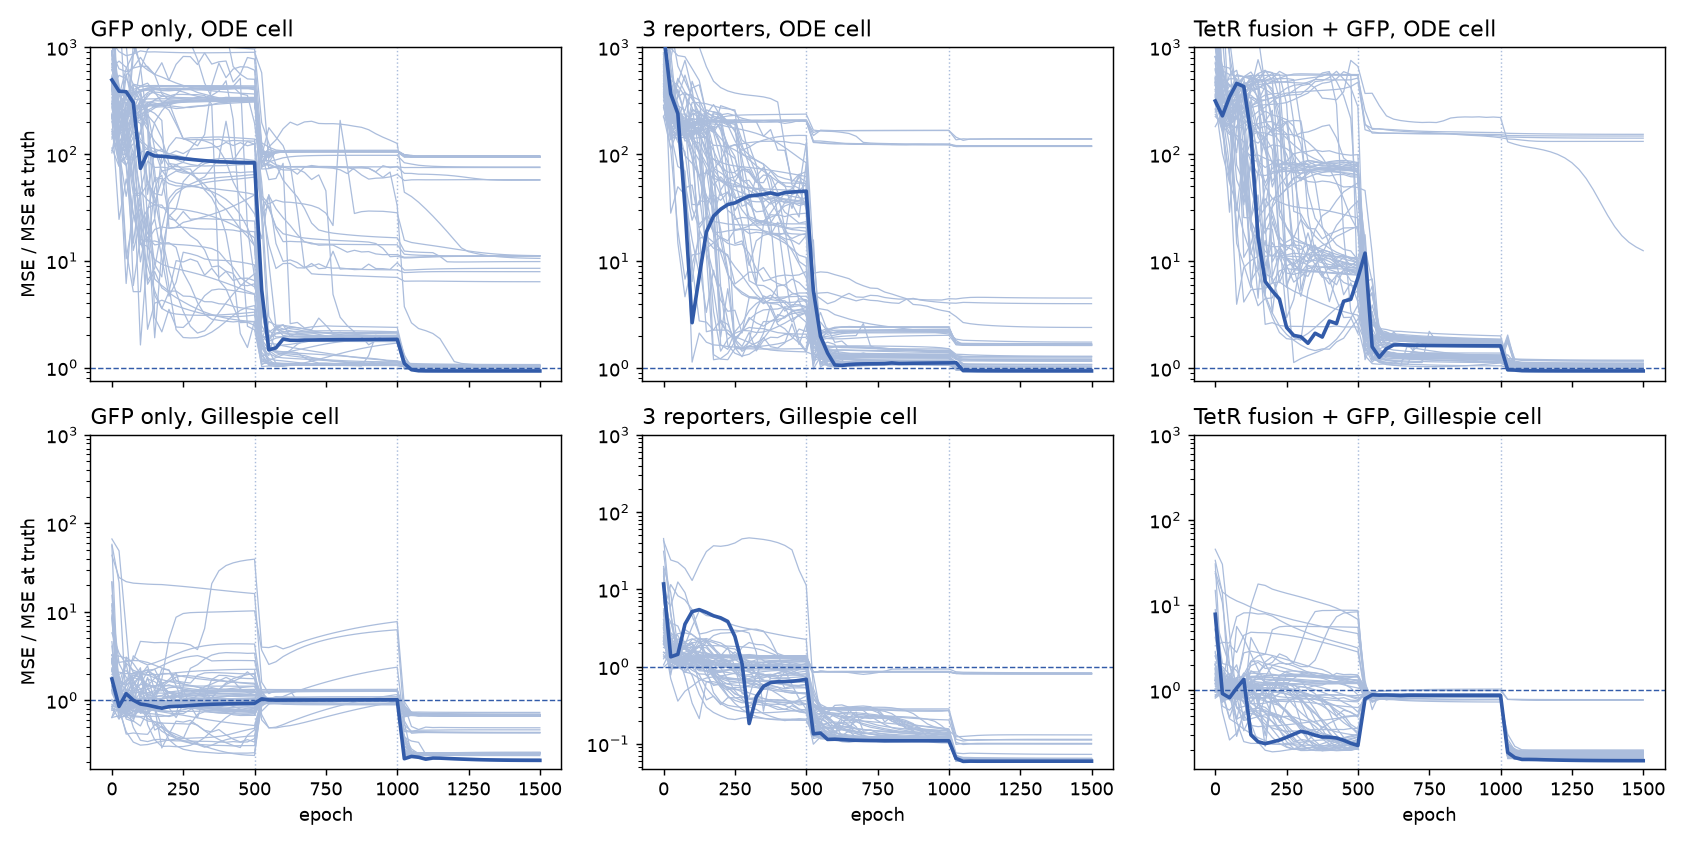
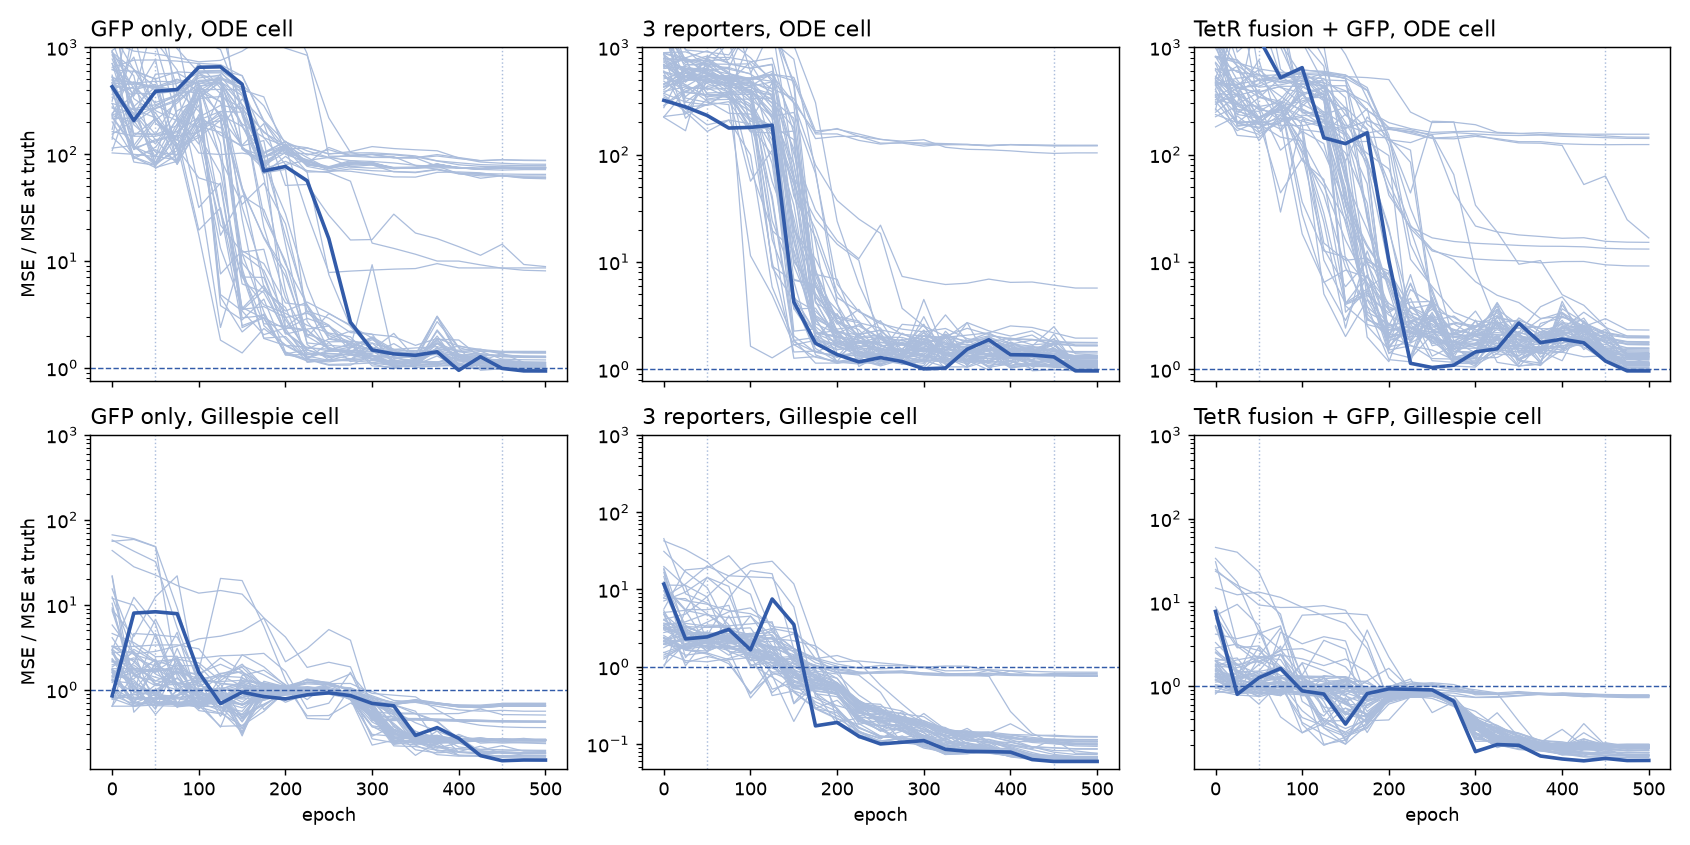
README: current method (64 x 500, ramp curriculum, coupled lr) and results
Updated tables and text for the new fit; new sections on fit quality, the
fairness controls, other circuits and real mother-machine cells, and the
curriculum / learning-rate / budget study; regenerated figures. The poster
summary is marked as describing the first version.

diff --git a/README.md b/README.md
@@ -5,8 +5,12 @@ David Korcak (dkorcak@ethz.ch) · MSc, Department of Computer Science, ETH Züri
 Inferring a gene circuit's parameters from sparse single-cell observations usually
 relies on dedicated estimators, optionally with a simulation. Using the repressilator,
 we show that **backpropagation through a differentiable simulation itself matches or
-outperforms them**. What limits inference is the choice of reporters, which we assess
-with an identifiability analysis.
+outperforms them**, and that its estimates reproduce the time series far better (§4.5,
+§4.6). The advantage is largest for oscillators: on other circuits it is competitive
+rather than dominant (§4.7), and on real mother-machine recordings of the improved
+repressilator it is the only one of four methods whose estimates oscillate (§4.8). What
+limits inference is the choice of reporters, which we assess with an identifiability
+analysis.
 
 <p align="center"><a href="docs/poster.pdf"><img src="assets/poster.png" width="520" alt="Poster"></a></p>
 
@@ -237,15 +241,19 @@ $$\mathcal{L} = \frac{1}{G\cdot C}\sum_{i=1}^{G\cdot C} H_\delta(r_i)$$
 
 ### Optimisation
 
-- We use Adam for 1500 epochs (update steps), and the learning rate (step
-  size) follows a cosine curve from 0.05 down to 2.5·10⁻⁴.
-- We use a *curriculum*. The loss first sees only the first 25% of the frames, then the
-  first 50%, then all of them. On a limit cycle a period error ΔT turns into a phase
-  error that grows linearly in time, roughly tΔT/T. Over the full 10 h a modest period
-  mismatch shifts the trajectory by whole cycles. The misfit then becomes nearly flat in
-  the parameters and has spurious minima wherever the model runs a cycle ahead or
-  behind. Fitting the first quarter and half of the record pins the period while phase
-  errors are still small, and the full record then refines it.
+- We use Adam for 500 epochs (update steps).
+- We use a *curriculum*. On a limit cycle a period error ΔT turns into a phase error
+  that grows linearly in time, roughly tΔT/T. Over the full 10 h a modest period mismatch
+  shifts the trajectory by whole cycles. The misfit then becomes nearly flat in the
+  parameters and has spurious minima wherever the model runs a cycle ahead or behind. So
+  the loss first sees only the first 10% of the frames (for the first 10% of epochs), then
+  a window that grows linearly to the whole record at 90% of the epochs. Fitting the early
+  part pins the period while phase errors are still small.
+- The **learning rate follows the window**. It stays at 0.05 while the window grows, so
+  restarts can still move between valleys, and anneals along a cosine to 2.5·10⁻⁴ during
+  the final 10% of epochs on the whole record, which settles each restart.
+- This is about 3.5× cheaper than the first version (1500 epochs, a 25% / 50% / 100%
+  curriculum and a cosine learning rate over all of training) and fits as well; see §5.
 
 ### Restarts
 
@@ -298,7 +306,7 @@ Median results on **ODE cells**
 
 | method | α | n | β | fit (× MSE at truth) |
 |---|---|---|---|---|
-| **diff. ODE (ours)** | **18%** | **3.4%** | **1.6%** | **0.94×** (all 39 between 0.87× and 1.0×) |
+| **diff. ODE (ours)** | **20%** | **4.2%** | **1.8%** | **0.96×** (all 39 between 0.87× and 1.00×) |
 | ABC-SMC | 61% | 15% | 54% | 219× |
 | MAGI | 34% | 12% | 17% | 64× |
 | inverse PINN | 50% | 28% | 16% | 278× |
@@ -307,7 +315,7 @@ Median results on **Gillespie cells**
 
 | method | α | n | β | fit (× MSE at truth) |
 |---|---|---|---|---|
-| **diff. ODE (ours)** | 73% | 8.5% | **11%** | **0.28×** |
+| **diff. ODE (ours)** | 81% | 7.1% | **9.2%** | **0.28×** |
 | ABC-SMC | 53% | 16% | 22% | 1.5× |
 | MAGI | 62% | **5.7%** | 23% | 0.93× |
 | inverse PINN | 58% | 23% | 16% | 2.2× |
@@ -331,13 +339,13 @@ the optimum. The other methods' estimates reproduce the data 64 to 278 times wor
 - MAGI estimates n better.
 - No method recovers α. The random variation in height from one cycle to the next
   swamps α, which is exactly the parameter that sets the height. Our per-cell α errors
-  range from 4% to 341%.
+  range from 1% to 344%.
 - Fits below 1× are expected here. A deterministic model run at the true parameters
   cannot follow the random path of a stochastic cell, so a fitted model can do better.
 
-**The number of seeds matters.** With only the first 3 seeds we looked better on
-Gillespie cells than we do with 13 (α 52% instead of 73%, n 5.5% instead of 8.5%). The
-result on ODE cells did not change.
+**The number of seeds matters.** With only the first 3 seeds our Gillespie α error is 117%
+instead of 81% with 13 (the first version of the fit showed the opposite, 52% instead of
+73%). Medians over a few stochastic cells are not stable; the ODE results are.
 
 ### 4.2 What the difference looks like
 
@@ -348,7 +356,7 @@ this configuration it is the median case for ABC-SMC, not the most flattering co
 Both methods started from the same prior draws, since ABC's first 64 particles are
 exactly our 64 starting guesses.
 
-- Ours follows the timing and height of each cycle, at 0.53× the MSE at the truth.
+- Ours follows the timing and height of each cycle, at 0.52× the MSE at the truth.
 - ABC-SMC settles on small, fast oscillations, at 2.6×.
 
 ### 4.3 Differentiable Gillespie does not qualify
@@ -411,19 +419,104 @@ by what is measured.
 
 | configuration | seeds | achieved α / n / β | achievable 1σ α / n / β |
 |---|---|---|---|
-| GFP only | 14 | 37% / 6.4% / 5.3% | 69% / 11.6% / 4.6% |
-| 2 reporters (GFP + mScarlet-I3) | 3 | 10% / 2.8% / 0.6% | 30% / 5.7% / 2.1% |
-| 3 reporters | 14 | 30% / 2.9% / 1.6% | 39% / 7.0% / 2.0% |
-| TetR fusion | 3 | 11% / 3.4% / 0.3% | 11% / 3.6% / 0.9% |
-| TetR fusion + GFP | 13 | 9% / 2.0% / 0.7% | 9% / 3.5% / 1.5% |
-| TetR fusion + mScarlet-I3 | 3 | 7% / 0.4% / 0.5% | 8% / 1.7% / 0.7% |
-| TetR fusion + 3 reporters | 3 | 6% / 2.1% / 0.9% | 11% / 3.4% / 0.9% |
-| 3 fusions | 3 | 2% / 1.4% / 0.6% | 9% / 3.0% / 0.7% |
+| GFP only | 14 | 38% / 4.9% / 5.3% | 69% / 11.6% / 4.6% |
+| 2 reporters (GFP + mScarlet-I3) | 3 | 14% / 4.4% / 0.6% | 30% / 5.7% / 2.1% |
+| 3 reporters | 14 | 42% / 5.4% / 2.2% | 39% / 7.0% / 2.0% |
+| TetR fusion | 3 | 13% / 4.2% / 0.3% | 11% / 3.6% / 0.9% |
+| TetR fusion + GFP | 13 | 9% / 2.9% / 0.9% | 9% / 3.5% / 1.5% |
+| TetR fusion + mScarlet-I3 | 3 | 10% / 4.2% / 1.4% | 8% / 1.7% / 0.7% |
+| TetR fusion + 3 reporters | 3 | 12% / 1.2% / 0.9% | 11% / 3.4% / 0.9% |
+| 3 fusions | 3 | 11% / 1.6% / 0.2% | 9% / 3.0% / 0.7% |
+
+### 4.5 How well each estimate reproduces the time series
+
+See [`fit_quality.py`](experiments/fit_quality.py). Every estimate is scored the same way:
+the ODE is integrated at it and compared with the frames and with the cell's hidden
+noise-free fluorescence. NRMSE is the root-mean-square error divided by the channel's range.
+
+| cells | method | NRMSE to frames | NRMSE to hidden truth | others / ours (95% CI) | closer cells | estimates that stop oscillating |
+|---|---|---|---|---|---|---|
+| ODE | **diff. ODE** | **0.029** | **0.0075** | 1 | | 0/39 |
+| | ABC-SMC | 0.446 | 0.450 | 59× [55, 62] | 39/39 | 20/39 |
+| | MAGI | 0.270 | 0.270 | 31× [28, 37] | 39/39 | 13/39 |
+| | inverse PINN | 0.485 | 0.484 | 67× [55, 80] | 39/39 | 25/39 |
+| Gillespie | **diff. ODE** | **0.111** | **0.113** | 1 | | 0/39 |
+| | ABC-SMC | 0.299 | 0.297 | 2.5× [2.2, 3.1] | 39/39 | 13/39 |
+| | MAGI | 0.210 | 0.211 | 2.0× [1.8, 2.3] | 39/39 | 9/39 |
+| | inverse PINN | 0.336 | 0.337 | 3.3× [2.7, 3.7] | 39/39 | 25/39 |
+
+On ODE cells ours reaches the camera noise (NRMSE 0.029 at the true parameters). The other
+estimates mostly fail in two ways: period errors that accumulate into phase drift (MAGI's
+error grows from 0.09 in the first hour to 0.33 in the last) and parameters at which the
+oscillation dies out. Removing the best constant time shift barely helps them, so the
+gap is not a global phase offset.
+
+### 4.6 Is that comparison fair?
+
+See [`fit_controls.py`](experiments/fit_controls.py). Scoring by forward integration of a
+point estimate favours a method whose output is such a trajectory, so we ran controls.
+
+- **Re-fitting only the starting state** of each competing estimate (parameters frozen)
+  brings none of them to the optimum on ODE cells. The misfit is in the parameters.
+- **A short local refinement** by backpropagation started from each estimate reaches the
+  optimum for 29 of 39 MAGI, 25 of 39 PINN and 15 of 39 ABC-SMC estimates. The solver-free
+  estimates are often close; their small errors are magnified by the integration.
+- **ABC-SMC's weighted median** is a poor summary of its population (fit 249× the truth's
+  MSE against 15× for its best particle, ODE cells). Its tolerance stalls near 0.3 NRMSE.
+- **Budget.** ABC-SMC with 64 or 500 particles and 96k or 300k simulations stays at 15-26×
+  (best particle) on ODE cells, while our fit uses 64 x 500 = 32k solves.
+
+### 4.7 Other circuits
+
+See [`circuits_benchmark.py`](experiments/circuits_benchmark.py) and
+[`circuits.py`](src/differentiable_cell/circuits.py): 5 synthetic ODE cells each, fit = MSE
+of the estimate's ODE trajectory / MSE at the truth (median).
+
+| circuit | diff. ODE | ABC-SMC | MAGI | inverse PINN |
+|---|---|---|---|---|
+| negative autoregulation (aTc pulse) | **0.96** | **0.96** | 169 | 215 |
+| toggle switch (IPTG, then aTc) | **0.97** | **0.97** | 1.18 | 1.02 |
+| Goodwin oscillator | **0.95** | 131 | 99 | 62 |
+| incoherent feed-forward loop | **0.94** | 3.8 | **1.00** | **0.98** |
+
+Only on the oscillator does ours alone reach the optimum. On the low-dimensional circuits
+ABC-SMC matches it; on the feed-forward loop MAGI and the PINN match it and recover some
+parameters better. When every method fits, the errors sit near the Fisher bounds.
+
+### 4.8 Real cells
+
+See [`real_repressilator.py`](experiments/real_repressilator.py) and
+[`real_improved.py`](experiments/real_improved.py). Mother-cell traces from the
+supplementary movies of Potvin-Trottier et al. [7]: compressed 8-bit videos, so a
+feasibility test rather than a measurement. NRMSE is range-normalised.
+
+**Original repressilator** (Video 2, GFP reporter, 9 cells, 27 windows of 10 h). Our fit
+(NRMSE 0.150, frame noise 0.062) beats a fitted sinusoid on 23 of 27 windows, but its 2-h
+forecasts are no better than the window mean: the circuit is too noisy for a deterministic
+model to predict.
+
+**Improved repressilator** (Video 6, no protein degradation, TetR sponge, three reporters,
+6 cells, 11 windows of 24 h), fitted with a dilution-only model:
+
+| method | fit NRMSE | 4-h forecast NRMSE | beats a sinusoid (fit / forecast) | fitted period (data 6.7 h) |
+|---|---|---|---|---|
+| **diff. ODE** | **0.135** | **0.205** | **11/11 / 11/11** | 6.8 h |
+| MAGI | 0.314 | 0.324 | 0/11 / 9/11 | 5.1 h |
+| inverse PINN | 0.355 | 0.391 | 0/11 / 5/11 | 3.7 h |
+| ABC-SMC | 0.362 | 0.353 | 0/11 / 5/11 | 4.4 h |
+
+The other methods' estimates mostly do not oscillate (Hill coefficients of 1.5-1.8 against
+our 2.7). Our protein dilution rate β = 0.075 is consistent across cells and implies a
+doubling time of about 27 min and a period of about 15 generations (the paper reports
+13.8). A single fit of each whole 54-h record (about 8 periods) stays in phase (NRMSE 0.166
+against 0.287 for the sinusoid). Two reporter maturation rates end at their prior bounds.
 
 ### Conclusion
 
 On the repressilator, plain backpropagation through a differentiable ODE matches or
-beats dedicated estimators. Accuracy is limited by the information the reporters reveal.
+beats dedicated estimators, and it is the only one whose estimates reliably reproduce an
+oscillating time series, synthetic or real. On non-oscillating circuits it is competitive
+rather than dominant. Accuracy is limited by the information the reporters reveal.
 Transcriptional reporters constrain the circuit's timing but not its absolute
 transcription rate. An identifiability analysis can therefore guide reporter design
 before a real experiment, both to maximise the chance of recovering the parameters and
@@ -431,20 +524,21 @@ to choose a suitable inference method.
 
 ## 5. Side experiments
 
-These experiments shaped the final settings. None of them changes the conclusions.
+These experiments shaped the settings. None of them changes the conclusions.
 
 ### Tuning the loss and optimiser
 
 See [`tuning.py`](experiments/tuning.py). This used 6 datasets (3 configurations times
 2 seeds, ODE cells) at a reduced budget of 32 restarts and 1000 epochs. Variants were
-judged on how well they fit the data, never on their errors against the true values.
+judged on how well they fit the data, never on their errors against the true values. It
+chose the loss (Huber) and, for the first version of the fit, the cosine schedule.
 
 | variant | median fit / truth MSE | reached optimum | α / n / β |
 |---|---|---|---|
 | MSE + exponential lr (baseline) | 1.097 | 3/6 | 42 / 9.1 / 3.9% |
 | Huber + exponential lr | 0.968 | 5/6 | 11 / 7.5 / 2.4% |
 | MSE + cosine lr | 0.981 | 5/6 | 40 / 9.2 / 3.6% |
-| **Huber + cosine lr (used)** | **0.940** | **6/6** | 33 / 13 / 2.9% |
+| **Huber + cosine lr (first version)** | **0.940** | **6/6** | 33 / 13 / 2.9% |
 | RMSprop | 1.228 | 0/6 | 31 / 19 / 11% |
 | SGD + Nesterov | 5.70 | 0/6 | 81 / 47 / 36% |
 
@@ -453,29 +547,53 @@ large residuals early in a fit. It is not a better model of camera noise, for wh
 is the correct likelihood. Once a fit reaches the optimum, the parameter errors are set
 by the data (§4.4), not by the loss.
 
-### How the 64 restarts spread
+### Curriculum, learning rate and budget
 
-See [`restart_spread.py`](experiments/restart_spread.py). This recorded every restart's
+See [`epoch_budget.py`](experiments/epoch_budget.py): 12 cells (3 configurations x both
+kinds x 2 seeds), each fit compared with the first version's fit of the same cell (64
+restarts x 1500 epochs, 25 / 50 / 100% curriculum, cosine lr). Gap = fit / that fit - 1.
+
+| at 32 restarts x 600 epochs | median gap | worst | within 2% |
+|---|---|---|---|
+| stages 25 / 50 / 100% (first version) | +0.9% | +6.2% | 7/12 |
+| ramp, full record from 75% of epochs | +0.8% | +5.1% | 7/12 |
+| ramp, full record from 90% | +1.1% | +5.1% | 7/12 |
+| **ramp from 90% + lr held until then (used)** | **+0.5%** | **+4.2%** | **8/12** |
+
+A purely linear window (10% to 100% over all of training, never holding the whole record)
+was about 3% worse on the single cell where it was tried. With the cosine schedule the
+learning rate is already small when the window first covers the whole record, so late
+curricula could not improve; coupling the learning rate to the window fixes that. Width is nearly free because the cost is per-step overhead:
+
+| restarts x epochs | median gap | worst | within 2% | min per fit |
+|---|---|---|---|---|
+| 32 x 300 / 500 / 600 | +1.5 / +0.7 / +0.5% | +7.8 / +3.5 / +4.2% | 6 / 8 / 8 | 1.8 / 3.0 / 3.6 |
+| 64 x 300 / 500 / 600 | +1.5 / +0.1 / -0.0% | +5.2 / +2.5 / +1.8% | 6 / 10 / 12 | 2.0 / 3.3 / 3.9 |
+| 128 x 300 / 400 / 500 | +0.8 / +0.1 / -0.3% | +3.8 / +1.8 / +1.1% | 9 / 12 / 12 | 2.1 / 2.8 / 3.5 |
+
+On all 110 benchmark cells (results of each version kept in `run_results/*_v1`, `_v2`, `_v3`):
+
+| version | median gap | worst gap | cells > 5% worse | min per fit |
+|---|---|---|---|---|
+| 32 x 600 | +0.4% | +9.8% | 7 | 3.6 |
+| 128 x 400 | +0.3% | +55.6% | 3 | 2.9 |
+| **64 x 500 (used)** | **+0.4%** | **+5.6%** | **1** | **3.3** |
+
+128 x 400 missed a basin on two cells: 400 epochs leave too little time on the whole record.
+
+### How the restarts spread
+
+See [`restart_spread.py`](experiments/restart_spread.py), which records every restart's
 loss over the full record every 25 epochs.
 
 <p align="center"><img src="assets/restart_curves.png" width="820" alt="Restart curves"></p>
 
-- About half the restarts reach the optimum on ODE cells (24 to 32 of 64). The rest get
-  stuck on flat plateaus (local minima) from about epoch 500 on. These are consistent
-  with phase-slip minima, fits that run a cycle ahead or behind. More restarts protect
-  against this, more epochs do not.
-- **Restarts that reach the same optimum disagree on α.** On configurations with
-  reporters only, α errors range from 2% to 65% at equally good fits. This is the sloppy
-  direction of §4.4 observed empirically. With the fusion configuration the restarts
-  agree (5% to 31%).
-- The best fit settles within about 100 epochs of the curriculum reaching the full
-  record (around epoch 1100). The last ~400 epochs change the MSE by less than 0.3%.
-- **The schedule cannot simply be shortened.**
-  - With 600 epochs the optimum is still reached, but only by 3 to 10 of 64 restarts
-    instead of 24 to 32. The early stages decide how many restarts escape bad valleys.
-  - Lowering the final learning rate to 10⁻⁵ instead of 2.5·10⁻⁴ changes nothing at
-    either length.
-  - So the setup stays at 1500 epochs.
+- On ODE cells 7 to 14 of the 64 restarts reach the optimum (within 2% of the MSE at the
+  truth); the rest stay on plateaus consistent with phase-slip minima. The best of 4
+  random restarts is typically within 2% of the MSE at the truth, the best of 8 below it.
+- **Restarts that reach the same optimum disagree on α.** With reporters only, α errors
+  range from 3% to 122% at equally good fits, the sloppy direction of §4.4; with the TetR
+  fusion they agree (3% to 24%).
 
 ## 6. Limitations
 
@@ -487,11 +605,13 @@ loss over the full record every 25 epochs.
   configurations use 3 seeds.
 - **Some model details are idealised.** Fusions do not perturb the circuit, and
   titration is a fixed effective shift.
-- **ABC-SMC is limited by its budget** of 300k simulations. A larger budget would help
-  it, and we did not measure by how much.
+- **ABC-SMC is limited by its budget.** Tripling it (96k to 300k simulations) or changing
+  its population size changed little (§4.6), but it was not run to convergence.
 - **Run time is not a claim.** Methods ran on fixed budgets, not until convergence. Ours
-  took about 10 min per cell (64 restarts), ABC about 4 min, MAGI about 10 min and the
-  PINN about 12 min.
+  takes about 3.3 min per cell (64 restarts x 500 epochs, one CPU thread), ABC about
+  4 min, MAGI about 10 min and the PINN about 14 min.
+- **Real data** come from compressed supplementary movies of one study, 6 to 9 cells
+  per strain.
 
 ## 7. Reproducing
 
@@ -520,7 +640,10 @@ uv run python experiments/circuits_benchmark.py --method gradient,abc,magi,pinn 
 uv run python experiments/real_repressilator.py --workers 6 && uv run python experiments/real_repressilator.py --report
 uv run python experiments/real_improved.py --workers 6 && uv run python experiments/real_improved.py --report
 
-# side experiments
+# side experiments (curriculum and budget: run_results/epoch_budget/)
+uv run python experiments/epoch_budget.py --cells 600 stages,ramp,ramp90,ramp90_coupled
+uv run python experiments/epoch_budget.py --grid 300,400,500,600 32,64,128 ramp90_coupled
+./experiments/rerun_gradient.sh 8                        # rerun everything that depends on the fit
 uv run python experiments/tuning.py --workers 3 && uv run python experiments/tuning.py --report
 uv run python experiments/restart_spread.py --workers 3 && uv run python experiments/restart_spread.py --report
 uv run python experiments/restart_spread.py --workers 3 --epochs 600 --lr-final 1e-5
@@ -553,6 +676,8 @@ uv run python experiments/restart_spread.py --workers 3 --epochs 600 --lr-final 
 6. Rijal K, Mehta P. A differentiable Gillespie algorithm for simulating chemical
    kinetics, parameter estimation, and designing synthetic biological circuits.
    *arXiv* 2407.04865 (2025).
+7. Potvin-Trottier L, Lord ND, Vinnicombe G, Paulsson J. Synchronous long-term oscillations
+   in a synthetic gene circuit. *Nature* 538, 514–517 (2016).
 
 Maturation rates and brightness values come from FPbase (Lambert, *Nat. Methods* 16,
 277–278, 2019). Degradation-tag half-lives come from Andersen et al.,

diff --git a/docs/poster_summary.md b/docs/poster_summary.md
@@ -1,5 +1,10 @@
 # Poster summary: differentiable simulation for single-cell repressilator inference
 
+> Snapshot from the poster (first version of the fit: 64 restarts x 1500 epochs, 25 / 50 / 100%
+> curriculum, cosine lr; 3 seeds). The README has the current numbers (64 x 500, more seeds,
+> fit-quality controls, other circuits, real cells); the first version's fits are in
+> `run_results/*_v1`.
+
 Numbers below are measured (Box 1 parameters, 3 seeds, one cell of 10 h at
 5-min frames); `run_results/` holds every fit and figure. MAGI, PINN and
 Laplace ran on a reduced grid (3 panels x ODE cells x 3 seeds).
